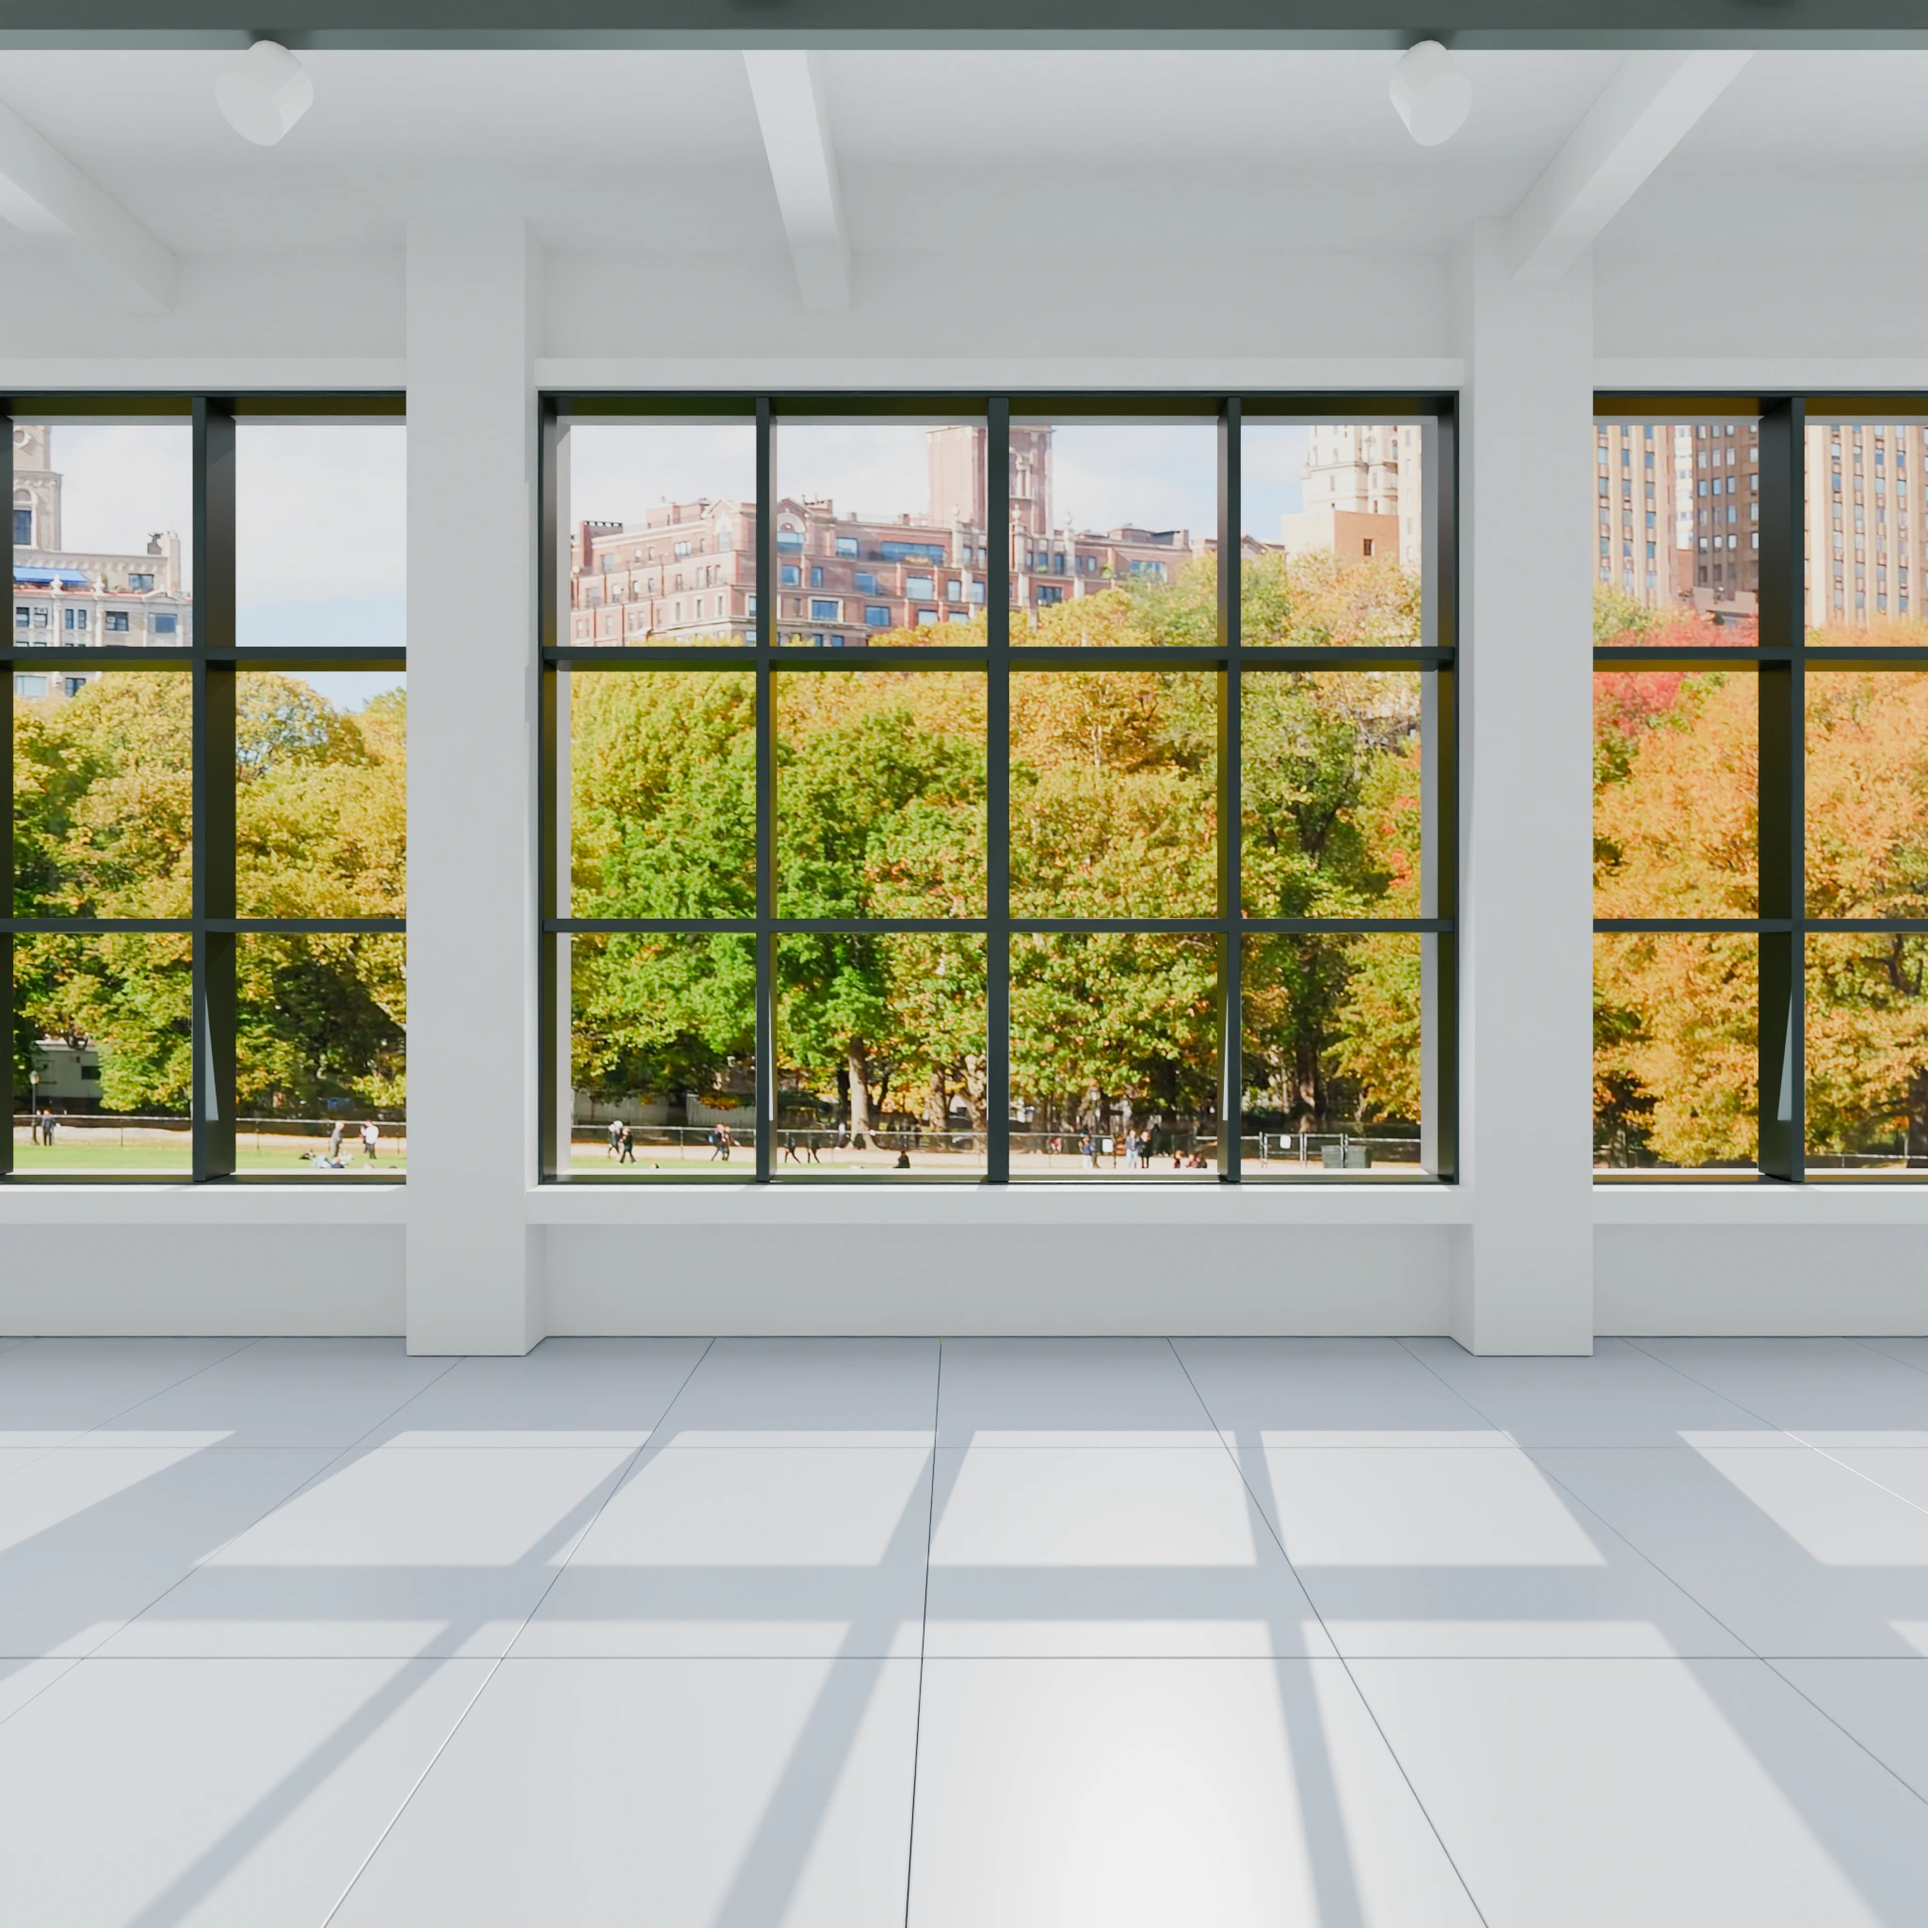
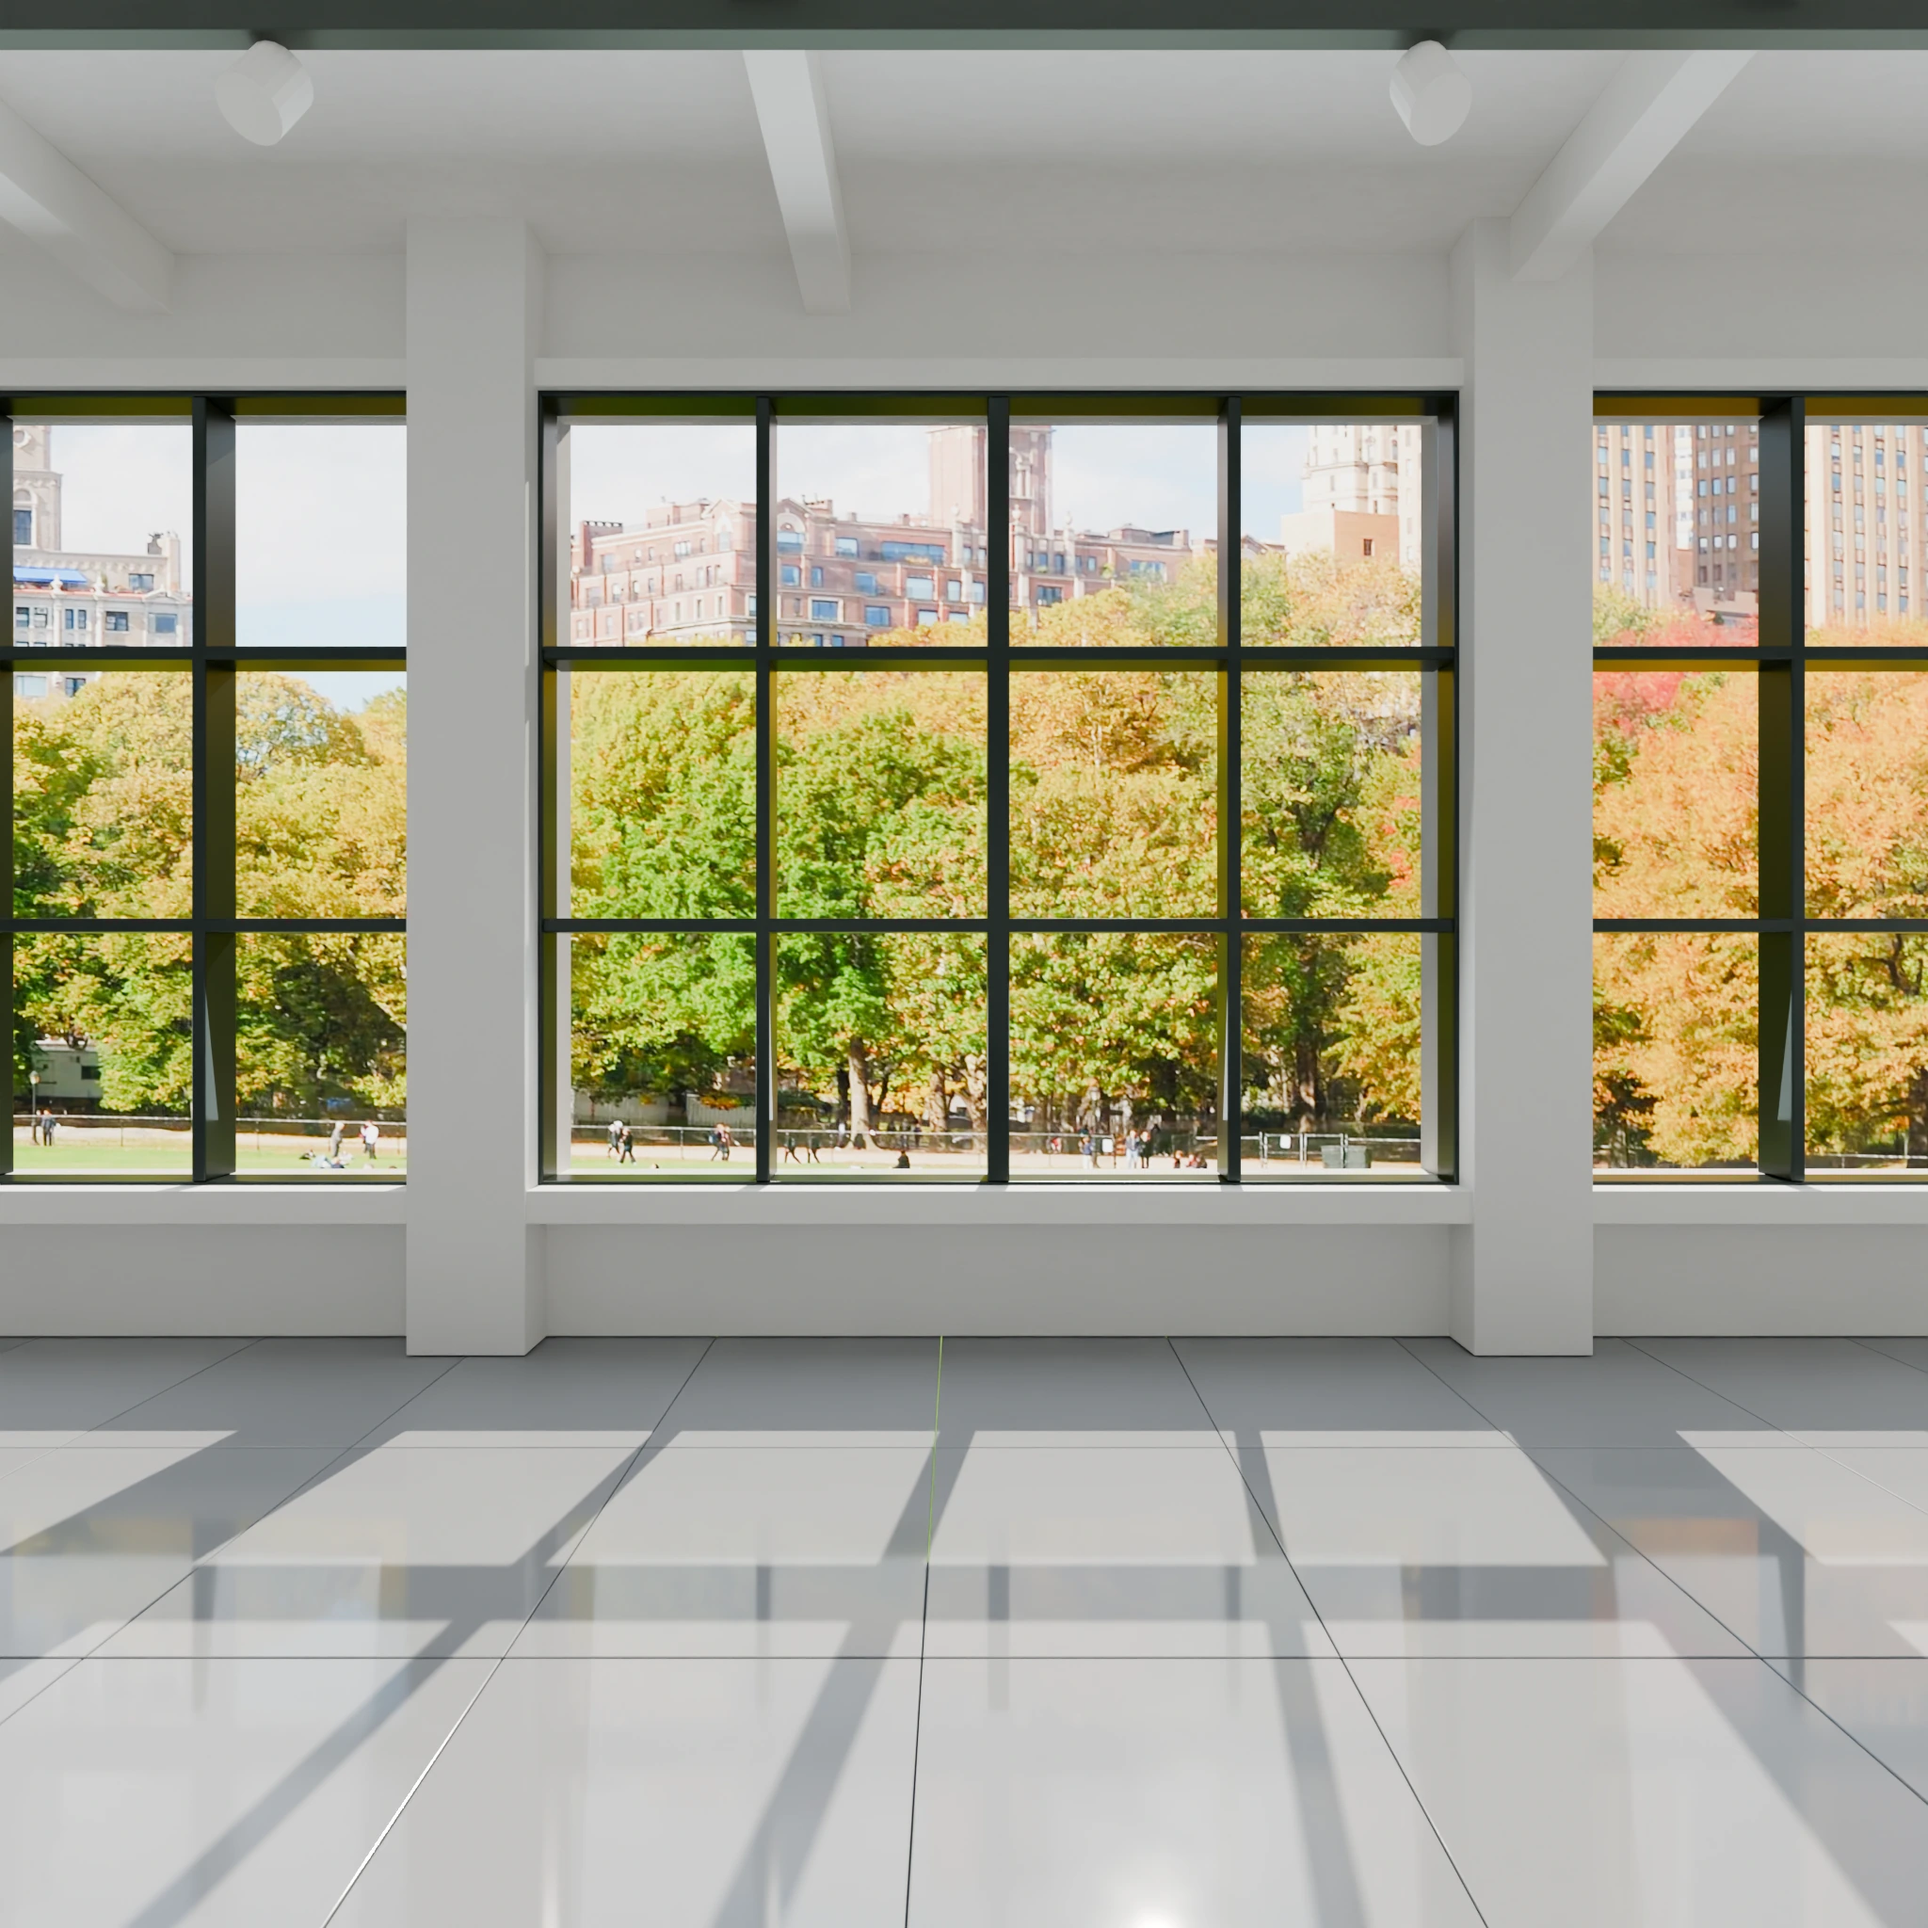
Apply reference-look Blender panoramas
Replace the three tour stations' cube faces with the render of
neoize-gallery-reference-look.blend (glossy floor, stronger daylight
contrast, one spotlight per artwork) and bump the panorama cache key.

Claude-Session: https://claude.ai/code/session_01X5ZXJ1JqgtjCrEziwr5iKK

diff --git a/src/viewer.js b/src/viewer.js
@@ -21,7 +21,7 @@ export async function createViewer(container,{onArtwork,onStation,onBusy,onError
  let walking=false,room=null,roomPending=null,colliders=[],goal=null;
  const held=new Set(),turn=new Set(),stick=new T.Vector2();
  const cache=new Map();const loader=new T.CubeTextureLoader();
- async function load(index){if(cache.has(index))return cache.get(index);const pending=loader.loadAsync(['px','nx','py','ny','pz','nz'].map(f=>asset(`panoramas/${stations[index].id}/${f}.webp?v=clear-daylight-20260909`))).then(tex=>{tex.colorSpace=T.SRGBColorSpace;if(disposed)tex.dispose();return tex}).catch(e=>{cache.delete(index);throw e});cache.set(index,pending);return pending;}
+ async function load(index){if(cache.has(index))return cache.get(index);const pending=loader.loadAsync(['px','nx','py','ny','pz','nz'].map(f=>asset(`panoramas/${stations[index].id}/${f}.webp?v=reference-look-20261120`))).then(tex=>{tex.colorSpace=T.SRGBColorSpace;if(disposed)tex.dispose();return tex}).catch(e=>{cache.delete(index);throw e});cache.set(index,pending);return pending;}
  function trimCache(){for(const [index,promise]of cache){if(index!==current&&index!==Math.min(current+1,LAST)){promise.then(t=>t.dispose());cache.delete(index);}}}
  const textureLoader=new T.TextureLoader();
  const introTex=await textureLoader.loadAsync(asset('assets/wall-introduction.svg'));introTex.colorSpace=T.SRGBColorSpace;
